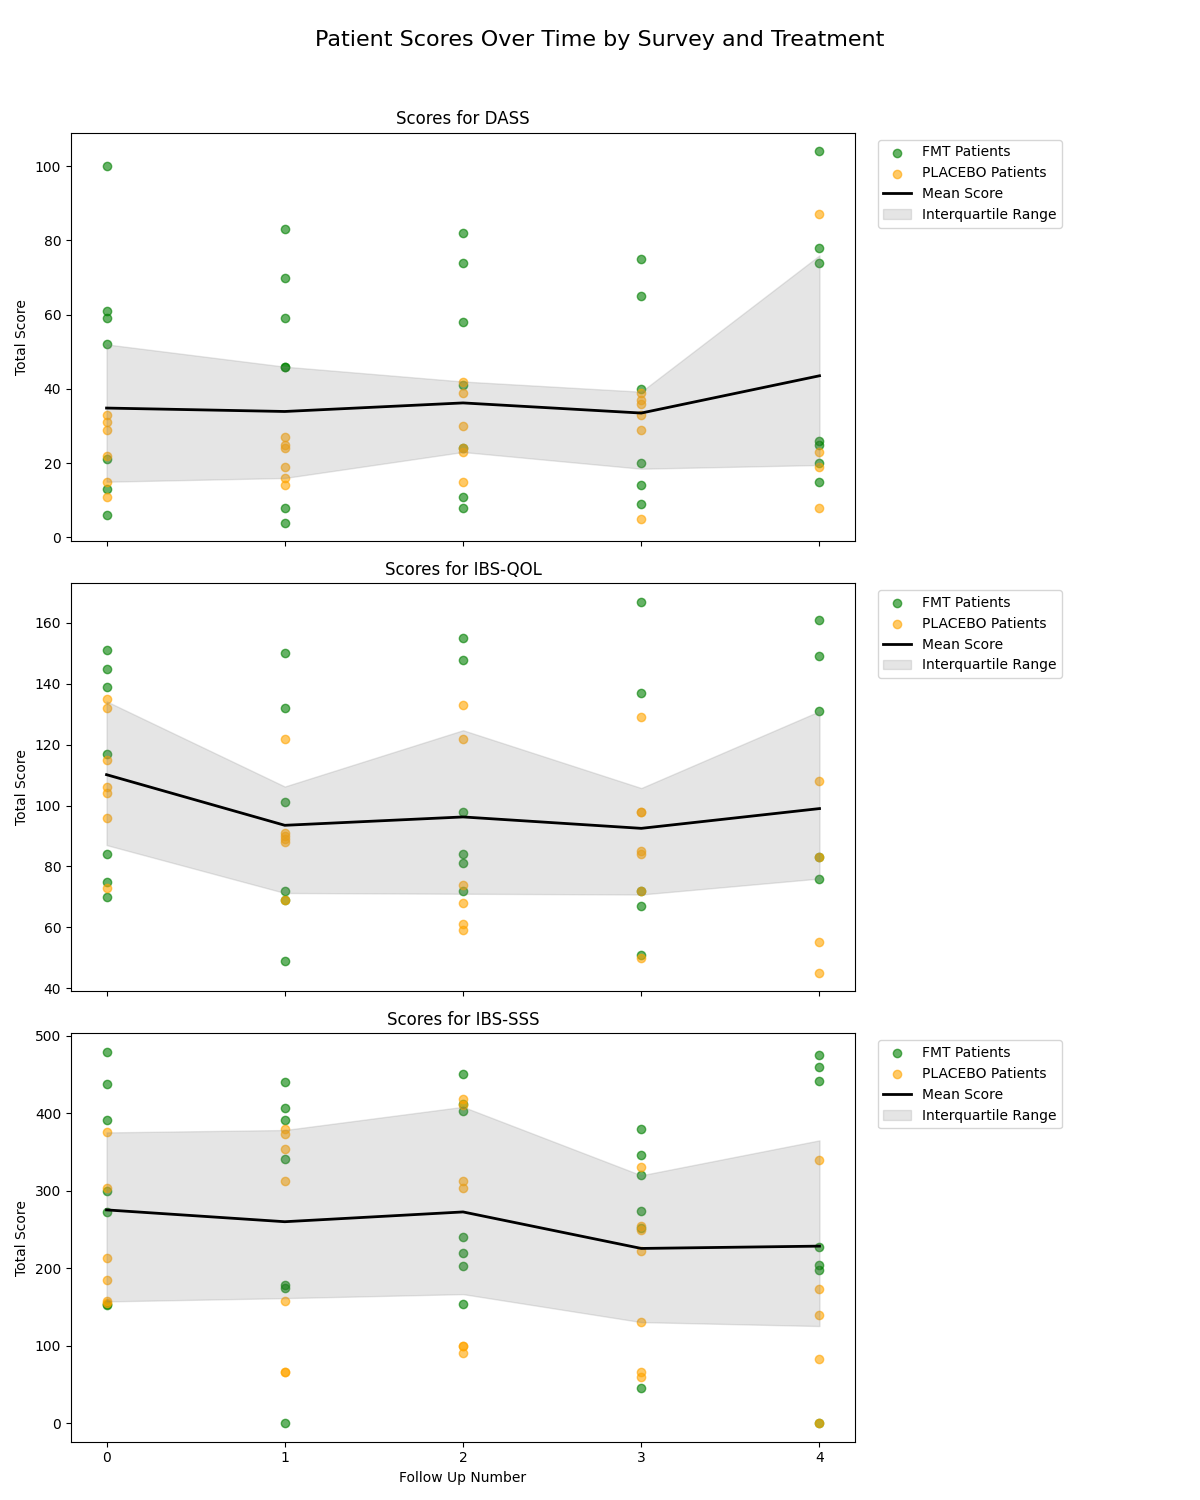
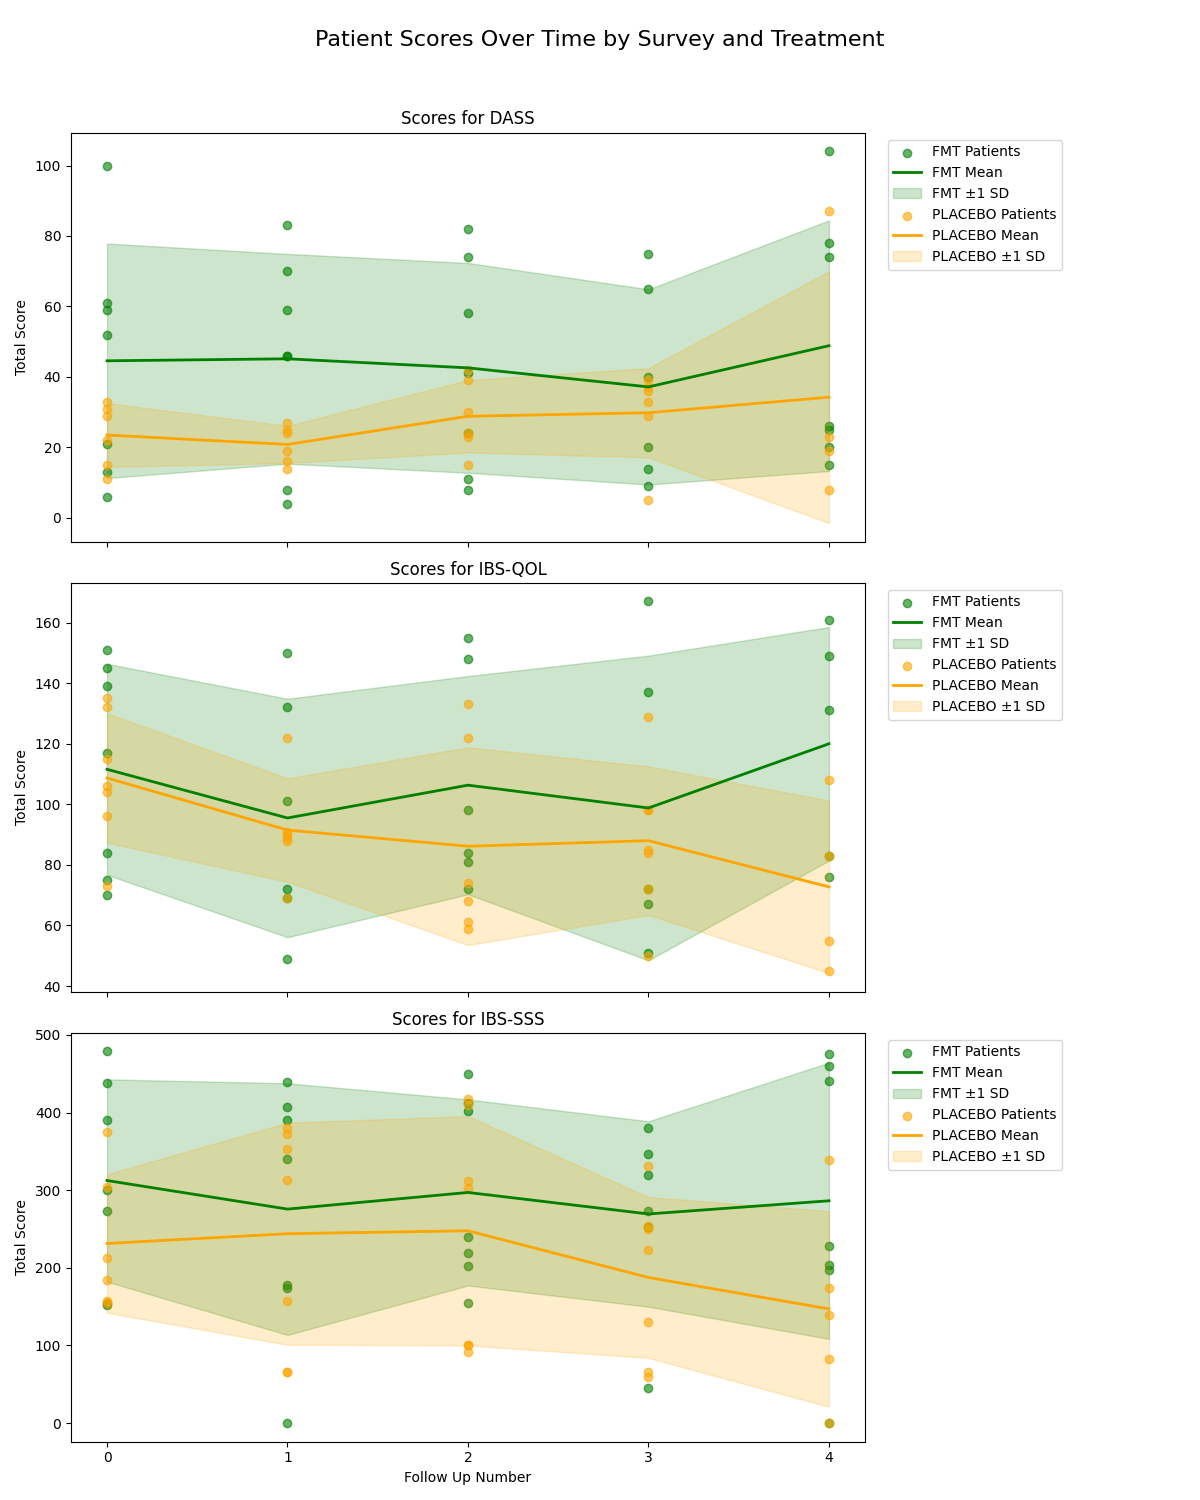
All graphs added

diff --git a/plot_scores_lines_only.py b/plot_scores_lines_only.py
@@ -47,39 +47,26 @@ for i, survey_name in enumerate(survey_names):
         ['patient_number', 'follow_up_number', 'patient_fmt_or_p']
     )['score'].sum().reset_index()
 
-    # Plot individual points and calculate statistics for each treatment
+    # Plot lines and error bars for each treatment
     for treatment in ['FMT', 'PLACEBO']:
         treatment_data = patient_scores_over_time[patient_scores_over_time['patient_fmt_or_p'] == treatment]
         
-        # Plot individual points
-        ax.scatter(
-            treatment_data['follow_up_number'],
-            treatment_data['score'],
-            color=color_mapping[treatment],
-            alpha=0.6,  # Slightly transparent
-            label=f'{treatment} Patients'
-        )
-
         # Calculate statistics for this treatment
         stats = treatment_data.groupby('follow_up_number')['score'].agg([
             'mean',
             'std'
         ]).reset_index()
 
-        # Plot mean line
-        ax.plot(stats['follow_up_number'], 
-                stats['mean'], 
-                color=color_mapping[treatment], 
-                linewidth=2, 
-                label=f'{treatment} Mean')
-
-        # Plot standard deviation range
-        ax.fill_between(stats['follow_up_number'],
-                        stats['mean'] - stats['std'],
-                        stats['mean'] + stats['std'],
-                        color=color_mapping[treatment],
-                        alpha=0.2,
-                        label=f'{treatment} ±1 SD')
+        # Plot mean line with error bars
+        ax.errorbar(stats['follow_up_number'], 
+                   stats['mean'],
+                   yerr=stats['std'],
+                   color=color_mapping[treatment],
+                   linewidth=2,
+                   capsize=5,  # Length of error bar caps
+                   capthick=2,  # Thickness of error bar caps
+                   elinewidth=2,  # Thickness of error bar lines
+                   label=f'{treatment} Mean ±1 SD')
 
     ax.set_title(f'Scores for {survey_name}')
     ax.set_ylabel('Total Score')
@@ -93,7 +80,7 @@ for i, survey_name in enumerate(survey_names):
 axes[-1].set_xlabel('Follow Up Number')
 
 # Add a main title to the figure
-fig.suptitle('Patient Scores Over Time by Survey and Treatment', fontsize=16)
+fig.suptitle('Mean Scores Over Time by Survey and Treatment', fontsize=16)
 
 # Adjust layout to make space for legends and suptitle
 plt.tight_layout(rect=[0, 0, 0.90, 0.96]) 
@@ -103,7 +90,7 @@ import os
 os.makedirs('results', exist_ok=True)
 
 # Save the combined plot
-combined_plot_filename = "results/all_surveys_scores_with_avg_plot.png"
+combined_plot_filename = "results/all_surveys_scores_lines_only.png"
 plt.savefig(combined_plot_filename)
 print(f"Combined plot saved as {combined_plot_filename}")
 plt.close(fig) # Close the figure to free memory
